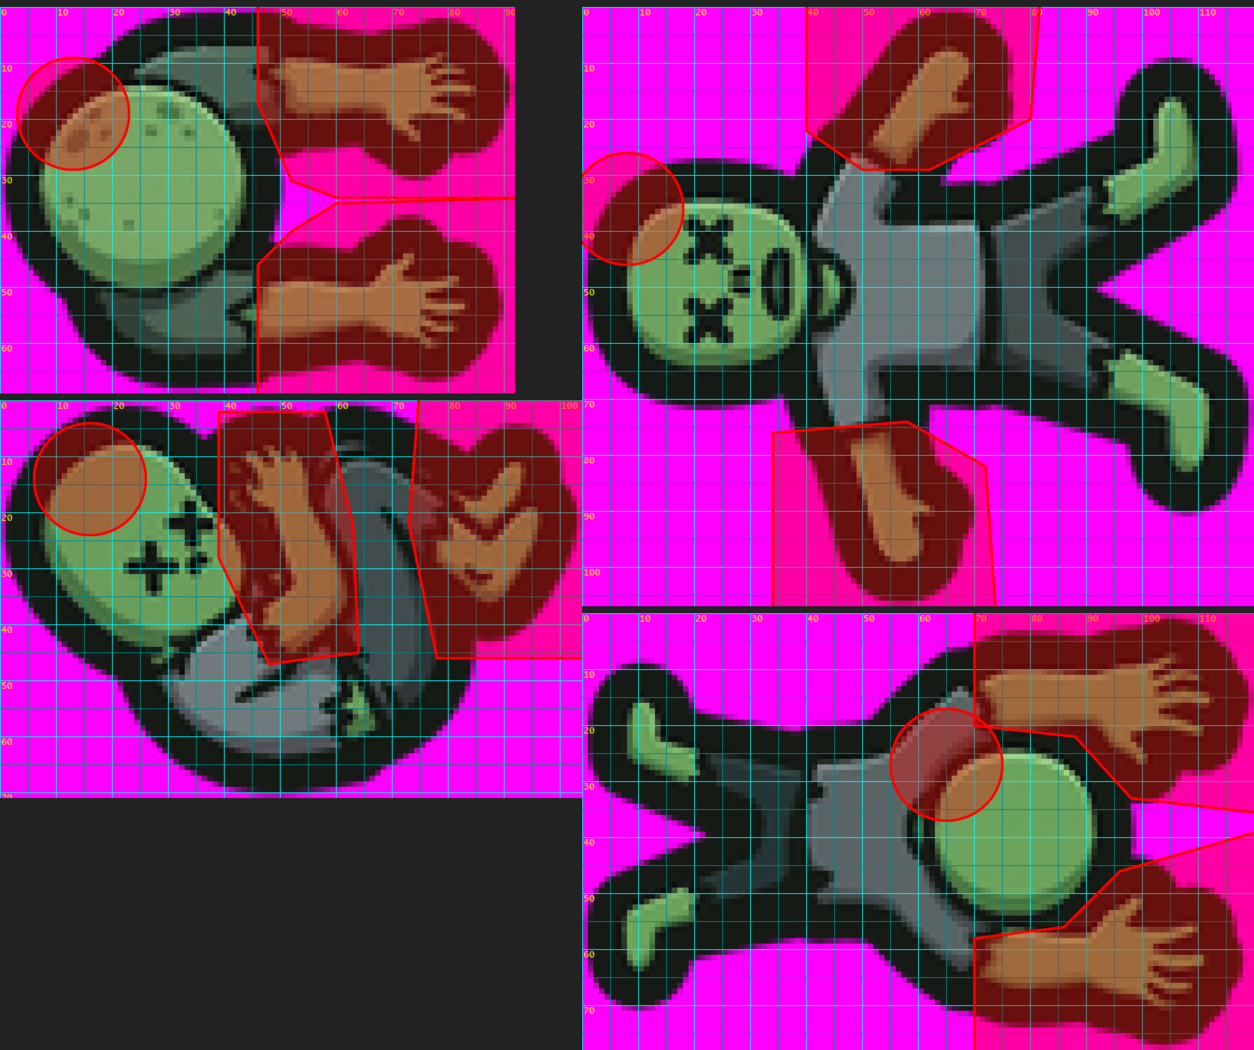
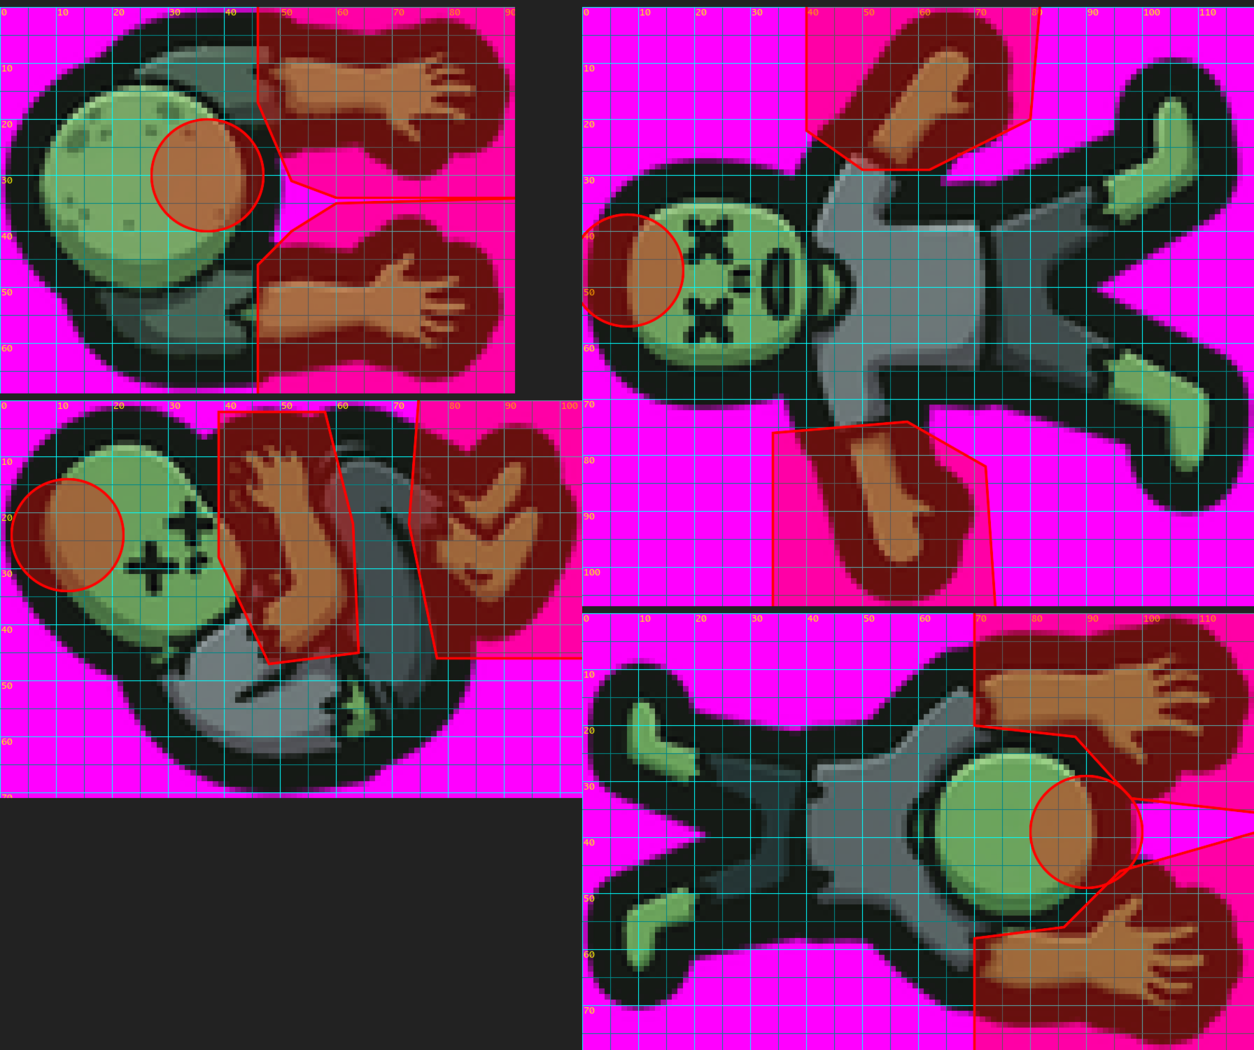
Hit only solid pixels, move head chunk to the front of the scalp
The arm polygons covered the whole front of the sprite, gap included, so
frontal shots always met an arm first and the back-of-skull chunk was
unreachable. Each body variant now keeps an opacity mask read back once at
load, and partOnRay only counts a part where the current body is solid, so a
shot between the arms reaches the head. The head chunk moves to the front of
the scalp (crown end on the corpse poses). Bot run at default chances: 12 left
arm, 13 right arm, 7 head chunk in 65 s.

diff --git a/src/fx/textures.ts b/src/fx/textures.ts
@@ -25,6 +25,15 @@ export interface ZombieLook {
   flash: Texture;
   /** Lying-down poses, one picked at random per death. */
   corpses: Texture[];
+  /** Solid pixels of `body`, for finding which part a shot struck; null for types without parts. */
+  opaque: OpacityMask | null;
+}
+
+/** One flag per source pixel of a texture: 1 where it is solid. Row-major from the top-left. */
+export interface OpacityMask {
+  width: number;
+  height: number;
+  solid: Uint8Array;
 }
 
 /** One part on its own, for the piece that flies off. */
@@ -174,6 +183,7 @@ export async function createTextures(
         body: loaded[paths.body],
         flash: loaded[paths.flash],
         corpses: paths.corpses.map((path) => loaded[path]),
+        opaque: null,
       };
       return [
         art.key,
@@ -338,12 +348,14 @@ function carveParts(
       ? { body: tornOutline(part.body), corpses: part.corpses.map(tornOutline) }
       : null;
   });
-  const looks = [whole];
+  const looks = [{ ...whole, opaque: opacityOf(renderer, whole.body) }];
   for (let mask = 1; mask < 1 << PART_IDS.length; mask++) {
     const gone = torn.filter((t, bit) => t && mask & (1 << bit));
     const bodyCuts = gone.map((t) => t!.body);
+    const body = carve(renderer, whole.body, bodyCuts, true);
     looks.push({
-      body: carve(renderer, whole.body, bodyCuts, true),
+      body,
+      opaque: opacityOf(renderer, body),
       flash: carve(renderer, whole.flash, bodyCuts, false),
       corpses: whole.corpses.map((pose, i) =>
         carve(
@@ -359,6 +371,15 @@ function carveParts(
     looks,
     parts: torn.map((t) => t && sever(renderer, whole.body, t.body)),
   };
+}
+
+/** Read a texture back once at load and keep which of its source pixels are more than half opaque. */
+function opacityOf(renderer: Renderer, texture: Texture): OpacityMask {
+  const { pixels, width, height } = renderer.extract.pixels(texture);
+  const solid = new Uint8Array(width * height);
+  for (let i = 0; i < solid.length; i++)
+    solid[i] = pixels[i * 4 + 3] > 127 ? 1 : 0;
+  return { width, height, solid };
 }
 
 /** A part's region as flat source-px points, and the stretch of it that tears from the body. */

diff --git a/src/entities/Zombie.ts b/src/entities/Zombie.ts
@@ -121,11 +121,13 @@ export class Zombie {
   /**
    * Which attached part a shot through (x, y) along the unit direction strikes first, as a part
    * bit index, or -1. Walks the line from an arm's length in front of the hit point to the far side
-   * of the body, so arms reaching past the hit circle are caught and a shot can exit through the head.
+   * of the body, so arms reaching past the hit circle are caught and a shot can exit through the
+   * head. Only solid pixels of the current body count, so a shot between the arms reaches the head.
    */
   partOnRay(x: number, y: number, dirX: number, dirY: number): number {
     const parts = this.def.art.parts;
-    if (!parts) return -1;
+    const opaque = this.look.opaque;
+    if (!parts || !opaque) return -1;
     const s = this.sprite;
     const cos = Math.cos(s.rotation);
     const sin = Math.sin(s.rotation);
@@ -138,6 +140,11 @@ export class Zombie {
       // Into the sprite's own source pixels: undo rotation, scale and anchor, then ART_SCALE.
       const u = ((dx * cos + dy * sin) / s.scale.x + ax) / ART_SCALE;
       const v = ((dy * cos - dx * sin) / s.scale.y + ay) / ART_SCALE;
+      const px = Math.floor(u);
+      const py = Math.floor(v);
+      if (px < 0 || py < 0 || px >= opaque.width || py >= opaque.height)
+        continue;
+      if (!opaque.solid[py * opaque.width + px]) continue;
       for (let bit = 0; bit < PART_IDS.length; bit++) {
         const part = parts[PART_IDS[bit]];
         if (part && !(this.missing & (1 << bit)) && inside(part.body, u, v))

diff --git a/src/config/zombies.ts b/src/config/zombies.ts
@@ -85,8 +85,8 @@ export const ZOMBIES = {
       radius: 12,
       anchor: { x: 0.28, y: 0.52 },
       // Faces right, so the left arm is the upper one. Outer edges run past the sprite so the torn
-      // wobble never leaves slivers. Arms tear off at the sleeve; the head chunk
-      // is the back-left of the skull. Corpse 1 lies face up head-left, 2 is curled, 3 face down.
+      // wobble never leaves slivers. Arms tear off at the sleeve; the head chunk is the front
+      // of the scalp, between the arms, where a shot from ahead lands. Corpse 1 lies face up head-left, 2 is curled, 3 face down.
       parts: {
         leftArm: {
           body: {
@@ -117,11 +117,11 @@ export const ZOMBIES = {
           ],
         },
         headChunk: {
-          body: { circle: [13, 19, 10] },
+          body: { circle: [37, 30, 10] },
           corpses: [
-            { circle: [8, 36, 10] },
-            { circle: [16, 14, 10] },
-            { circle: [65, 27, 10] },
+            { circle: [8, 47, 10] },
+            { circle: [12, 24, 10] },
+            { circle: [90, 39, 10] },
           ],
         },
       },
